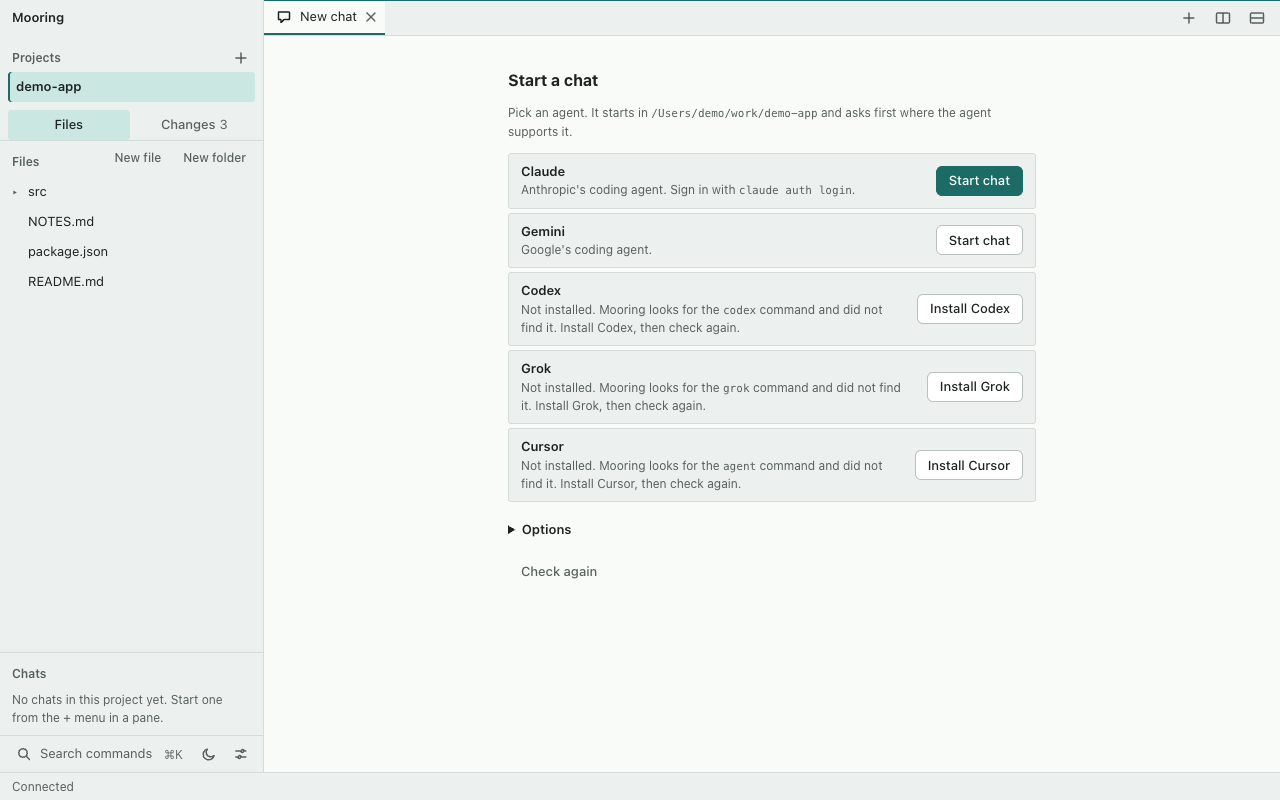
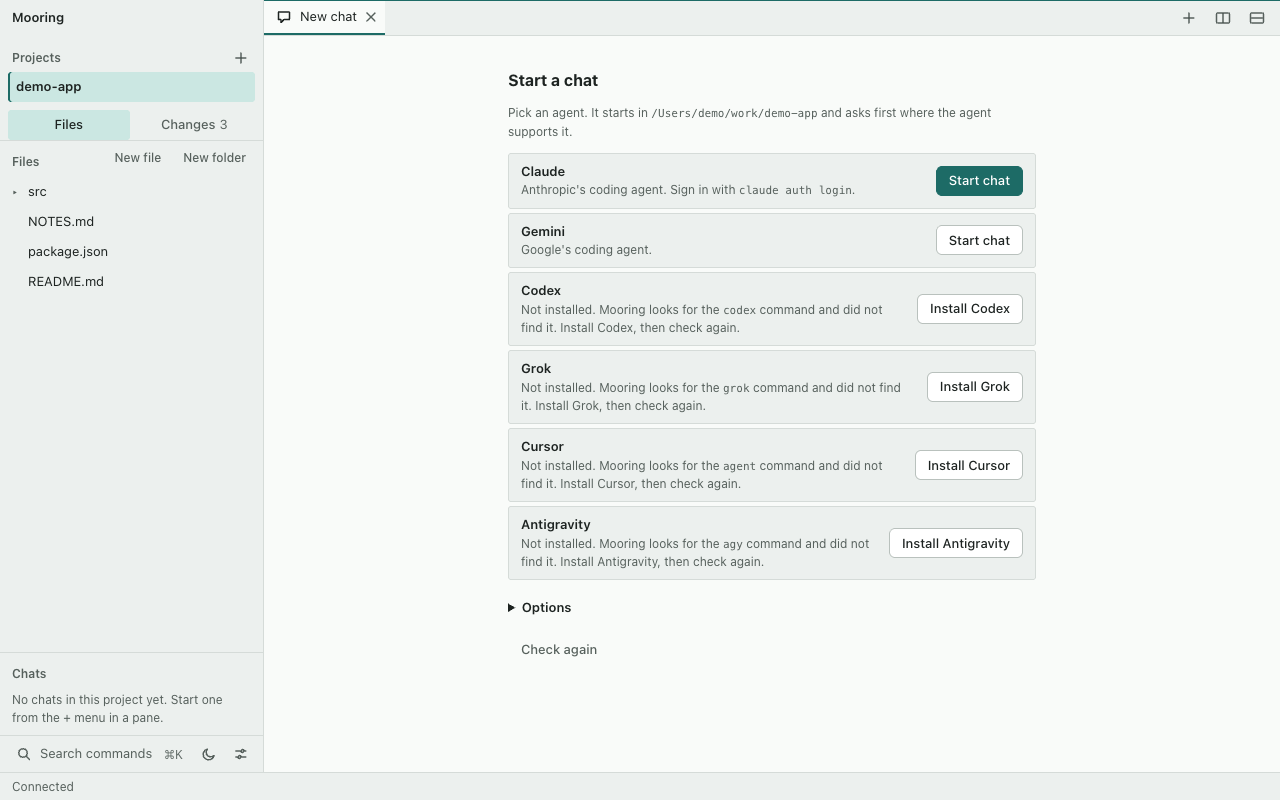
Agents: add Antigravity (agy acp); README shows the six agents and how they work together
- Catalog: Antigravity runs `agy acp` (Google Antigravity CLI 1.5 or later).
  Not tested end to end, like every agent but Claude.
- README: "Why Mooring" leads with six agents in one window, and a new
  "Working with more than one agent" part covers handing over with "New chat
  from summary" and sharing a project or worktrees.
- Guide: Antigravity row in the agent table; the summary hand-over can switch
  agents. The picker picture is retaken with six agents.

Changed region(s): [[0.4062, 0.625, 0.8125, 0.7188], [0.4062, 0.75, 0.4375, 0.7812]]

diff --git a/internal/server/chats_test.go b/internal/server/chats_test.go
@@ -39,7 +39,7 @@ func TestSnapshotListsChatsAndAgents(t *testing.T) {
 	if err := json.Unmarshal(data, &w); err != nil {
 		t.Fatal(err)
 	}
-	if w.Snapshot.Chats == nil || len(w.Snapshot.Agents) != 5 || w.Snapshot.Agents[0].ID != "claude" || !w.Snapshot.Agents[0].Tested {
+	if w.Snapshot.Chats == nil || len(w.Snapshot.Agents) != 6 || w.Snapshot.Agents[0].ID != "claude" || !w.Snapshot.Agents[0].Tested {
 		t.Fatalf("snapshot: %s", data)
 	}
 }

diff --git a/internal/chat/catalog.go b/internal/chat/catalog.go
@@ -66,6 +66,10 @@ func DefaultCatalog() []AgentDef {
 			ID: "cursor", Name: "Cursor", Command: "agent", Args: []string{"acp"},
 			Needs: []string{"agent"}, Note: "Cursor's coding agent.",
 		},
+		{
+			ID: "antigravity", Name: "Antigravity", Command: "agy", Args: []string{"acp"},
+			Needs: []string{"agy"}, Note: "Google Antigravity's agent (agy 1.5 or later). Sign in once by running `agy`.",
+		},
 	}
 }
 

diff --git a/internal/chat/spec_test.go b/internal/chat/spec_test.go
@@ -13,7 +13,7 @@ func TestDefaultCatalogEntries(t *testing.T) {
 			t.Fatalf("claude entry: %+v", d)
 		}
 	}
-	if strings.Join(ids, ",") != "claude,gemini,codex,grok,cursor" {
+	if strings.Join(ids, ",") != "claude,gemini,codex,grok,cursor,antigravity" {
 		t.Fatalf("catalog: %v", ids)
 	}
 	missing := AgentDef{ID: "x", Name: "X", Needs: []string{"definitely-not-installed-xyz"}}.Info()

diff --git a/README.md b/README.md
@@ -48,7 +48,7 @@ servers. You start everything from the browser. It is for one user on one machin
 | --- | --- | --- |
 | Projects and files | Add a folder, clone a repository or make one. Browse, edit, rename, move, upload, download, find by name or text. | [Projects and files](docs/guide/projects-and-files.md) |
 | Terminals | Shells in tabs and split panes. A bell in a terminal marks its tab. A terminal keeps running when you close the page. | [Terminals](docs/guide/terminals.md) |
-| Agent chats | Talk to Claude, Gemini, Codex, Grok or Cursor. Allow or reject each command. Use several accounts and add tool servers. | [Agent chats](docs/guide/agent-chats.md) |
+| Agent chats | Talk to Claude, Gemini, Codex, Grok, Cursor or Antigravity. Allow or reject each command. Use several accounts and add tool servers. | [Agent chats](docs/guide/agent-chats.md) |
 | Git | Stage whole files or single lines, commit, switch branches, push, fetch, pull, stash and use worktrees. | [Git](docs/guide/git.md) |
 | SSH | Open a terminal and browse files on a saved host. Remember its password in a secret store. | [SSH](docs/guide/ssh.md) |
 | Language servers | Errors, hover text, completions and go to definition in the editor. Install a server from a bar above the file. | [Language servers](docs/guide/language-servers.md) |
@@ -56,11 +56,12 @@ servers. You start everything from the browser. It is for one user on one machin
 
 ## Why Mooring
 
-Mooring does not replace your agent. It runs the same agent (Claude, Gemini, Codex, Grok, Cursor)
-through ACP and adds a workspace around it. What you get over a terminal window:
+Mooring is not tied to one agent. It runs the same agent you use in a terminal (Claude, Gemini,
+Codex, Grok, Cursor or Antigravity) through ACP and adds a workspace around it. What you get over
+a terminal window:
 
-- **Several agents in one window.** Chats sit in tabs. You can use several accounts of one
-  provider, each with its own limits.
+- **Six agents in one window.** Chats with different agents run side by side in tabs. You can use
+  several accounts of one provider, each with its own limits.
 - **You see which chat needs you.** A tab that waits for a permission answer, a question, a stopped
   chat or a terminal bell gets a mark.
 - **Nothing stops when you close the page.** Chats and terminals live in the program. Reload and
@@ -74,6 +75,19 @@ through ACP and adds a workspace around it. What you get over a terminal window:
 When the plain CLI is enough: if you run one agent at a time and review in your own editor, the
 agent's CLI alone is simpler. New CLI features also reach the CLI first. Mooring only gets what the
 ACP adapter exposes.
+
+### Working with more than one agent
+
+Agents do not message each other. There are two ways to make them work together.
+
+- **Hand over.** In the "Chat options" menu (the … in the chat header), "New chat from summary" writes a summary
+  of the chat. The agent writes it, or Mooring cuts it from the messages if the agent cannot. It
+  opens in a new chat tab where you can edit it (16 KB at most). The picker offers "Start with" the
+  same agent and says "Pick another below to switch", so you can pass the work from Claude to
+  Gemini. The new agent reads the summary before your first message.
+- **Share the project.** Parallel chats work in the same project folder, or each in its own git
+  worktree ("Work in its own worktree" in the picker) so they do not touch each other's files. Tool
+  servers you enable are offered to every chat. You review all their changes in one Changes view.
 
 ## How it works
 
@@ -129,7 +143,7 @@ the details, including how to sign out other browsers.
 3. **Start a chat.** Press Alt+A, or click + in a pane and choose "Chat". Pick an agent. One that is not installed
    shows an Install button, and Claude asks you to run `claude auth login` first.
 
-   <img src="docs/guide/images/agent-chats-picker.png" width="700" alt="The Start a chat tab listing Claude with a sign-in command, Gemini, and Codex, Grok and Cursor marked Not installed with an Install button.">
+   <img src="docs/guide/images/agent-chats-picker.png" width="700" alt="The Start a chat tab listing Claude with a sign-in command and Gemini as ready, and Codex, Grok, Cursor and Antigravity marked Not installed with Install buttons.">
 
 4. **Answer the agent.** When it wants to run a command, the chat shows "Needs permission" with the
    command, and the tab, the project and the status bar get a mark. Click Allow or Reject.

diff --git a/docs/guide/agent-chats.md b/docs/guide/agent-chats.md
@@ -13,6 +13,7 @@ agent, and Mooring starts it.
 | Codex | `npx -y @agentclientprotocol/codex-acp` | `npx` and `codex` | |
 | Grok | `grok agent stdio` | `grok` | `grok login`, or set `XAI_API_KEY` |
 | Cursor | `agent acp` | `agent` | |
+| Antigravity | `agy acp` | `agy` (Google Antigravity CLI 1.5 or later) | Run `agy` once, or `agy acp --login` with no browser |
 
 Mooring finds each program on the PATH of the Mooring process. If you start Mooring from a
 terminal, that is your terminal's PATH. With autostart, `mooring autostart on` keeps the PATH from
@@ -26,7 +27,7 @@ the moment you ran it, so run it again after you install a new tool. See
    first where the agent supports it.
 3. Click "Start chat".
 
-![The Start a chat picker: Claude and Gemini can start, Codex, Grok and Cursor say Not installed with an Install button.](images/agent-chats-picker.png)
+![The Start a chat picker: Claude and Gemini can start, Codex, Grok, Cursor and Antigravity say Not installed with Install buttons.](images/agent-chats-picker.png)
 
 If the agent is missing, the picker says "Not installed. Mooring looks for the `X` command and did
 not find it. Install NAME, then check again." Click "Install NAME" to open a terminal, install it,
@@ -58,7 +59,8 @@ asking.
 
 The "Chat options" menu has "Shorten long output", "New chat from summary", a context meter
 ("Context N of M") and "Cost so far". "New chat from summary" opens a draft of the summary, up to
-16 KB, that you can edit before starting a new chat with it.
+16 KB, that you can edit before starting a new chat with it. The new chat can use another agent: the
+picker offers "Start with" the same agent and says "Pick another below to switch".
 
 ## Permission prompts and Attention
 

diff --git a/CHANGELOG.md b/CHANGELOG.md
@@ -13,7 +13,7 @@ First public version. What exists:
 - Projects: add a folder, clone a repository or make one. A file tree with edit, rename, move, upload,
   download, trash and search by name or text.
 - Terminals in tabs and split panes that keep running when the page closes. A bell marks the tab that needs you.
-- Agent chats over ACP for Claude, Gemini, Codex, Grok and Cursor. Each command asks for permission.
+- Agent chats over ACP for Claude, Gemini, Codex, Grok, Cursor and Antigravity. Each command asks for permission.
   Several accounts per agent with their limits, tool servers (MCP), queued messages, and token saving
   (output compaction and a ledger).
 - Git: status, diff, stage whole files or single lines, commit, branches, push, fetch and pull (fast-forward

diff --git a/AGENTS.md b/AGENTS.md
@@ -1,7 +1,7 @@
 # Mooring
 
 One Go binary that serves a Svelte 5 web app: a browser workspace for terminals, AI coding
-agents (any ACP agent: Claude, Grok, Cursor, Gemini, Codex, and others), files, git, SSH and
+agents (any ACP agent: Claude, Grok, Cursor, Gemini, Codex, Antigravity, and others), files, git, SSH and
 language servers. Single user, one machine. Everything is started from the browser.
 
 This file is for coding agents and for people who want the short version. Human contributors:
